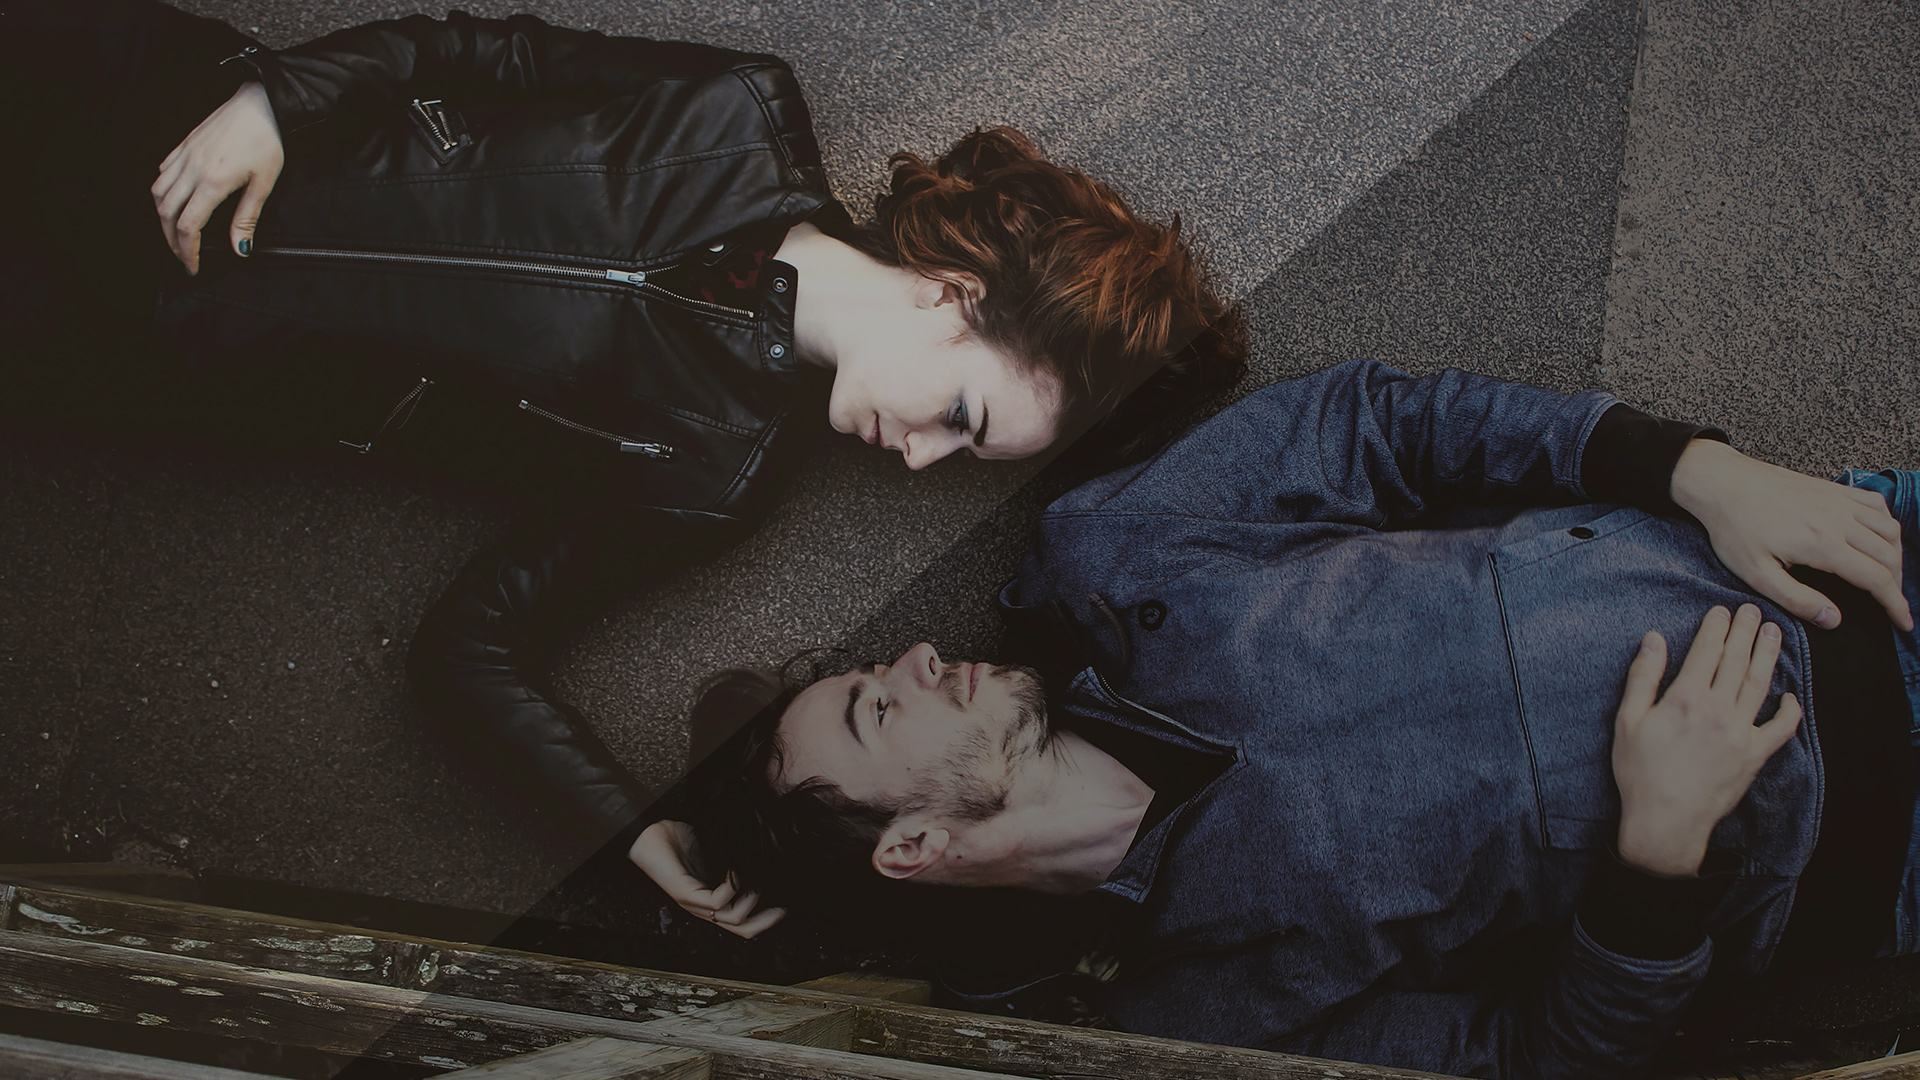
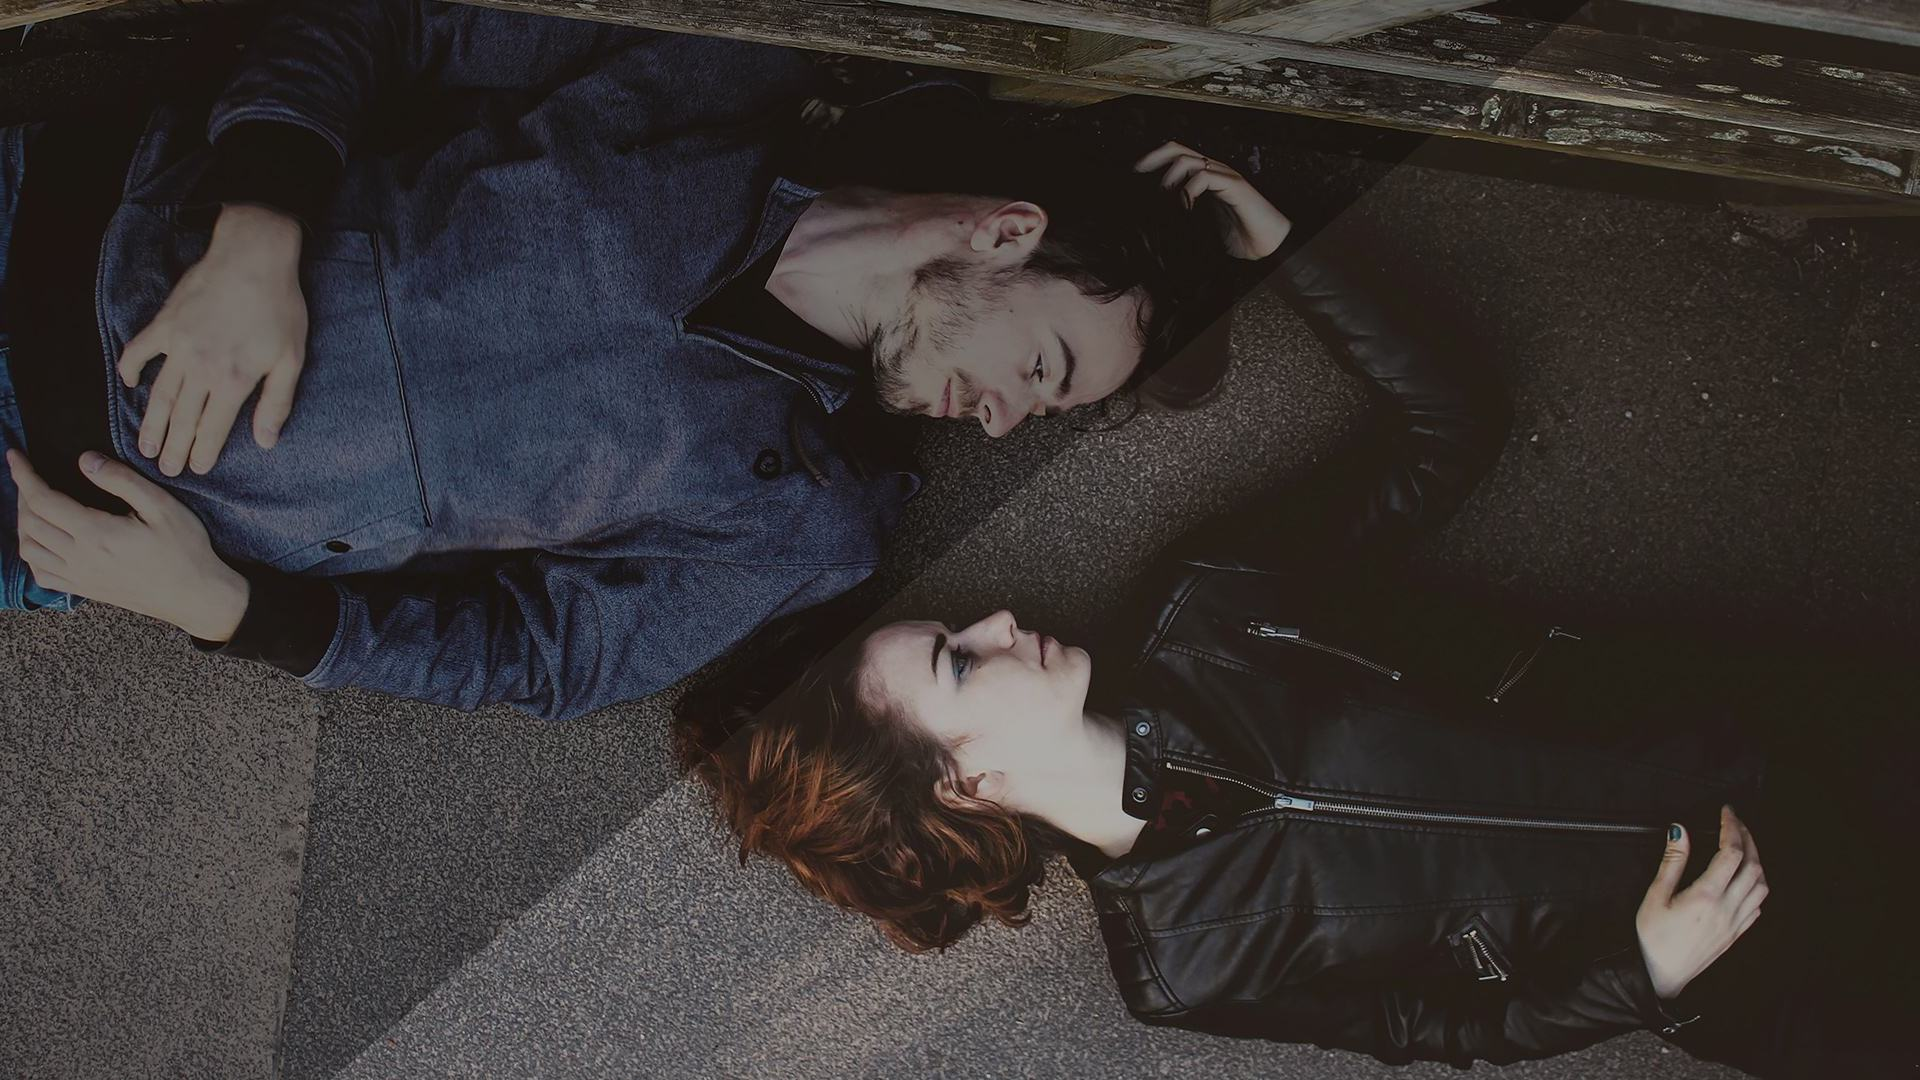
page index finie

diff --git a/socialnetwork/templates/socialnetwork/base.html b/socialnetwork/templates/socialnetwork/base.html
@@ -14,6 +14,7 @@
         <title>Vis Ton Meeting</title>
         <link rel="stylesheet" href="//maxcdn.bootstrapcdn.com/bootstrap/3.2.0/css/bootstrap.min.css">
         <link rel="stylesheet" href="//maxcdn.bootstrapcdn.com/bootstrap/3.2.0/css/bootstrap-theme.min.css">
+        <link href="//maxcdn.bootstrapcdn.com/font-awesome/4.2.0/css/font-awesome.min.css" rel="stylesheet">
         <link href='//fonts.googleapis.com/css?family=Lobster&subset=latin,latin-ext' rel='stylesheet' type='text/css'>
         <link rel="stylesheet" href="{% static 'css/base.css' %}">
     </head>
@@ -44,18 +45,16 @@
         {% block content %}
         {% endblock %}
 
-
-        <footer>
-            <div>
-                <ul>
-                    <li><a href="/index">Home</a></li>
-                    <li><a href="/index">A propos</a></li>
-                </ul>       
-               </div>       
-            <div>
-                <p>© 2017 Vis Ton Meeting. All rights reserved. </p>
-            </div>
-        </footer>
     </body>
+
+    <footer>
+        <div class="footer">
+            <a href="https://facebook.com"/><i class="fa fa-facebook fa-3x fa-fw"></i></a>
+            <a href="https://twitter.com"/><i class="fa fa-twitter fa-3x fa-fw"></i></a>
+            <a href="https://linkedin.com"/><i class="fa fa-linkedin fa-3x fa-fw"></i></a>
+            <a href="https://github.com/"><i class="fa fa-github fa-3x fa-fw"></i></a></li>
+            <p class="text-white">© 2017 Vis Ton Meeting. All rights reserved.</p>
+         </div>
+    </footer>
 
 </html>

diff --git a/socialnetwork/static/css/base.css b/socialnetwork/static/css/base.css
@@ -31,19 +31,60 @@
     color: #FFFF00;
 }
 
+header{
+    padding: 50px;
+    padding-top: 5px;
+}
+
 body{
-    background:url('./images/fond_ecran.jpeg');
-    padding:50px;
+    background:url('./images/background-1.jpeg');
+    padding:0px;
+    margin: 0;
+    height: 100%;
 }
 
-.page-footer {
-    background-color: #82C46C;
-    margin-top: 0;
-    padding: 20px 20px 20px 40px;
+.footer{
+    background-color: #2B2A29;
+    margin-top: 30px;
+    position: relative;
+    bottom: 0;
+    width: 100%;
+    height: 110px;
 }
 
-.page-footer h1, .page-footer h1 a, .page-footer h1 a:visited, .page-footer h1 a:active {
-    color: #ffffff;
-    font-size: 36pt;
-    text-decoration: none;
+.footer{
+    text-align: center;
+    padding: 20px;
+}
+
+.fa-twitter {
+    color: #00aced;
+}
+
+.fa-facebook {
+    color: #3b5998;
+}
+
+.fa-linkedin {
+    color: #007bb6;
+}
+
+.fa-github {
+    color: #000000;
+}
+
+.fa {
+    opacity: 0.6;
+}
+
+.fa:hover{
+    opacity: 1;
+}
+
+.text-white{
+    color: #FFFFFF;
+    text-align: center;
+    font-size: 15pt;
+    font-family: 'Lobster', cursive;
+    padding-bottom:0;
 }

diff --git a/socialnetwork/templates/socialnetwork/index.html b/socialnetwork/templates/socialnetwork/index.html
@@ -15,6 +15,7 @@
     <link rel="stylesheet" href="{% static 'css/index.css' %}">
     <link href="//netdna.bootstrapcdn.com/font-awesome/4.0.3/css/font-awesome.css" rel="stylesheet">
 
+<div class="body">
     <div>
         <div class="cote_gauche">
             <h1>Pour flirter, sortir…ou encore discuter d'un même sujet.</h1>
@@ -84,5 +85,6 @@
         </div>          
     </div>
     </div>
+</div>
 {% endblock content %}
 

diff --git a/socialnetwork/static/css/index.css b/socialnetwork/static/css/index.css
@@ -1,8 +1,12 @@
+.body{
+    padding-left:50px;
+}
+
 .cote_gauche{
     text-align: center;
     position: absolute;
     width: 40%;
-    margin-top: 170px;
+    margin-top: 150px;
 }
 
 .cote_gauche h1{
@@ -13,7 +17,7 @@
 
 .line{
     width:3px;
-    height:100%;
+    height:80%;
     background-color: #cdcdcd;
     position: relative;
     margin-left: 45%;
